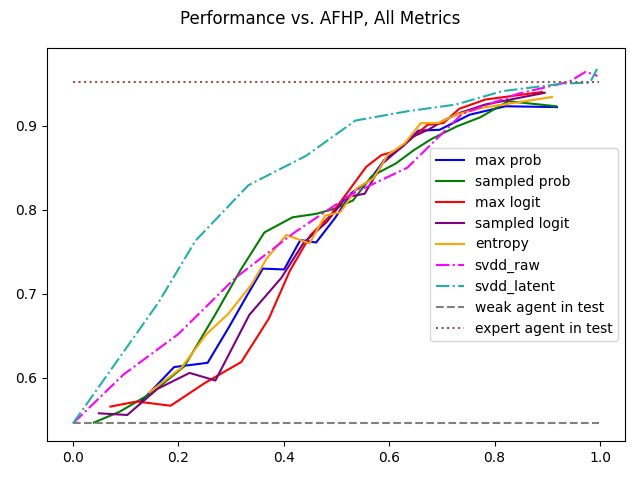
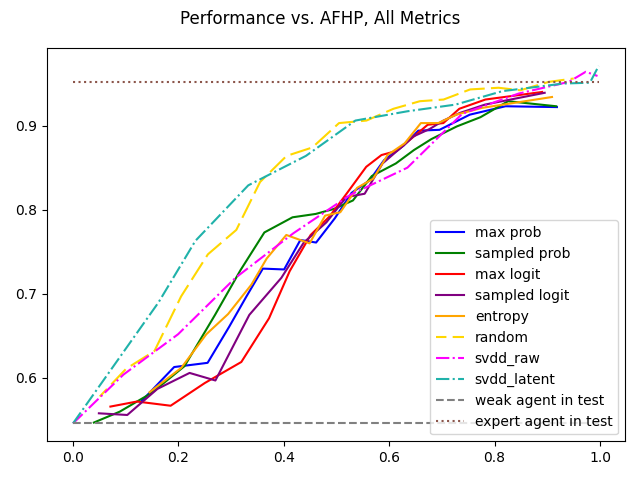
results

diff --git a/full_analysis.py b/full_analysis.py
@@ -466,7 +466,7 @@ if args.plotting:
             sort_idx = np.argsort(afhp_means)
             smallest_afhp = min(smallest_afhp, afhp_means[sort_idx][0])
             biggest_afhp = max(biggest_afhp, afhp_means[sort_idx][-1])
-            axes5.plot(afhp_means[sort_idx], rew_means[sort_idx], color = colors[metric], label = metric if "T" not in metric else skyline_names[metric], linestyle = "dashdot" if "svdd" in metric else "solid")
+            axes5.plot(afhp_means[sort_idx], rew_means[sort_idx], color = colors[metric], label = metric if "T" not in metric else skyline_names[metric], linestyle = "dashdot" if "svdd" in metric else ((5, (10, 3)) if metric == "random" else "solid"))
             # Adding 0% ask for help and 100% ask for help
             axes6.plot(afhp_means[sort_idx], rew_means[sort_idx], color = colors[metric], label = metric)
             axes6.plot(0, test_perf_mean, marker = "o", color = "black")
